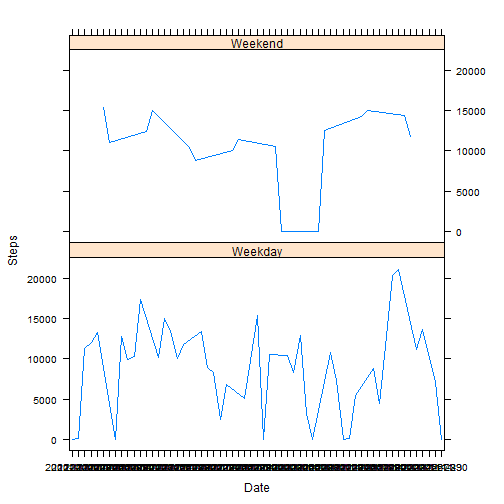
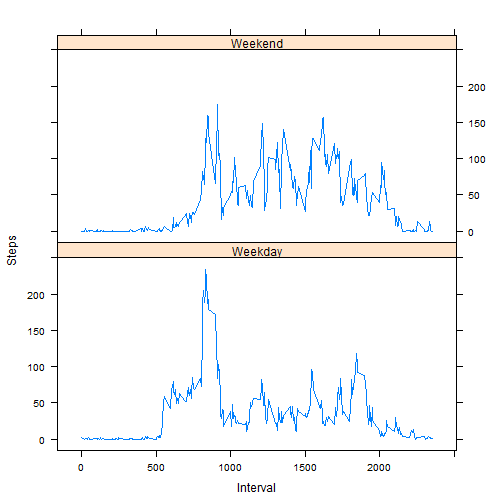
Weekday correction

diff --git a/PA1_template.html b/PA1_template.html
@@ -319,25 +319,27 @@ head(fdSteps)
 
 <h2>Are there differences in activity patterns between weekdays and weekends?</h2>
 
-<pre><code class="r">stepsByDate$Day &lt;- weekdays(as.Date(stepsByDate$Date))
-stepsByDate$WD &lt;- stepsByDate$Day
-for(i in 1:nrow(stepsByDate)) {
-  if(stepsByDate$Day[i] == &quot;Saturday&quot; || stepsByDate$Day[i] == &quot;Sunday&quot;)
-    stepsByDate$WD[i] &lt;- &quot;Weekend&quot;
+<pre><code class="r">rawData$Day &lt;- weekdays(as.Date(rawData$date))
+rawData$WD &lt;- rawData$Day
+for(i in 1:nrow(rawData)) {
+  if(rawData$Day[i] == &quot;Saturday&quot; || rawData$Day[i] == &quot;Sunday&quot;)
+    rawData$WD[i] &lt;- &quot;Weekend&quot;
   else
-    stepsByDate$WD[i] &lt;- &quot;Weekday&quot;
+    rawData$WD[i] &lt;- &quot;Weekday&quot;
 }
 
-head(stepsByDate)
+stepsByWeekday &lt;- aggregate(rawData$steps,by=list(Interval=rawData$interval, WD = rawData$WD),na.rm=TRUE,FUN=mean)
+names(stepsByWeekday) &lt;- c(&quot;Interval&quot;, &quot;Weekday&quot;, &quot;Steps&quot;)
+head(stepsByWeekday)
 </code></pre>
 
-<pre><code>##         Date Steps       Day      WD
-## 1 2012-10-01     0    Monday Weekday
-## 2 2012-10-02   126   Tuesday Weekday
-## 3 2012-10-03 11352 Wednesday Weekday
-## 4 2012-10-04 12116  Thursday Weekday
-## 5 2012-10-05 13294    Friday Weekday
-## 6 2012-10-06 15420  Saturday Weekend
+<pre><code>##   Interval Weekday  Steps
+## 1        0 Weekday 2.3333
+## 2        5 Weekday 0.4615
+## 3       10 Weekday 0.1795
+## 4       15 Weekday 0.2051
+## 5       20 Weekday 0.1026
+## 6       25 Weekday 1.5128
 </code></pre>
 
 <ul>
@@ -345,10 +347,10 @@ head(stepsByDate)
 </ul>
 
 <pre><code class="r">library(lattice)
-with(stepsByDate, xyplot(Steps ~ Date | WD, type=&quot;l&quot;, layout=c(1,2)))
+with(stepsByWeekday, xyplot(Steps ~ Interval | Weekday, type=&quot;l&quot;, layout=c(1,2)))
 </code></pre>
 
[2 lines of base64/hex data omitted]
 
 </body>
 

diff --git a/PA1_template.md b/PA1_template.md
@@ -163,26 +163,28 @@ median(fdSteps$Steps)
 
 
 ```r
-stepsByDate$Day <- weekdays(as.Date(stepsByDate$Date))
-stepsByDate$WD <- stepsByDate$Day
-for(i in 1:nrow(stepsByDate)) {
-  if(stepsByDate$Day[i] == "Saturday" || stepsByDate$Day[i] == "Sunday")
-    stepsByDate$WD[i] <- "Weekend"
+rawData$Day <- weekdays(as.Date(rawData$date))
+rawData$WD <- rawData$Day
+for(i in 1:nrow(rawData)) {
+  if(rawData$Day[i] == "Saturday" || rawData$Day[i] == "Sunday")
+    rawData$WD[i] <- "Weekend"
   else
-    stepsByDate$WD[i] <- "Weekday"
+    rawData$WD[i] <- "Weekday"
 }
 
-head(stepsByDate)
+stepsByWeekday <- aggregate(rawData$steps,by=list(Interval=rawData$interval, WD = rawData$WD),na.rm=TRUE,FUN=mean)
+names(stepsByWeekday) <- c("Interval", "Weekday", "Steps")
+head(stepsByWeekday)
 ```
 
 ```
-##         Date Steps       Day      WD
-## 1 2012-10-01     0    Monday Weekday
-## 2 2012-10-02   126   Tuesday Weekday
-## 3 2012-10-03 11352 Wednesday Weekday
-## 4 2012-10-04 12116  Thursday Weekday
-## 5 2012-10-05 13294    Friday Weekday
-## 6 2012-10-06 15420  Saturday Weekend
+##   Interval Weekday  Steps
+## 1        0 Weekday 2.3333
+## 2        5 Weekday 0.4615
+## 3       10 Weekday 0.1795
+## 4       15 Weekday 0.2051
+## 5       20 Weekday 0.1026
+## 6       25 Weekday 1.5128
 ```
 
 * Plot steps by type of day
@@ -190,7 +192,7 @@ head(stepsByDate)
 
 ```r
 library(lattice)
-with(stepsByDate, xyplot(Steps ~ Date | WD, type="l", layout=c(1,2)))
+with(stepsByWeekday, xyplot(Steps ~ Interval | Weekday, type="l", layout=c(1,2)))
 ```
 
 ![plot of chunk unnamed-chunk-11](figure/unnamed-chunk-11.png) 
